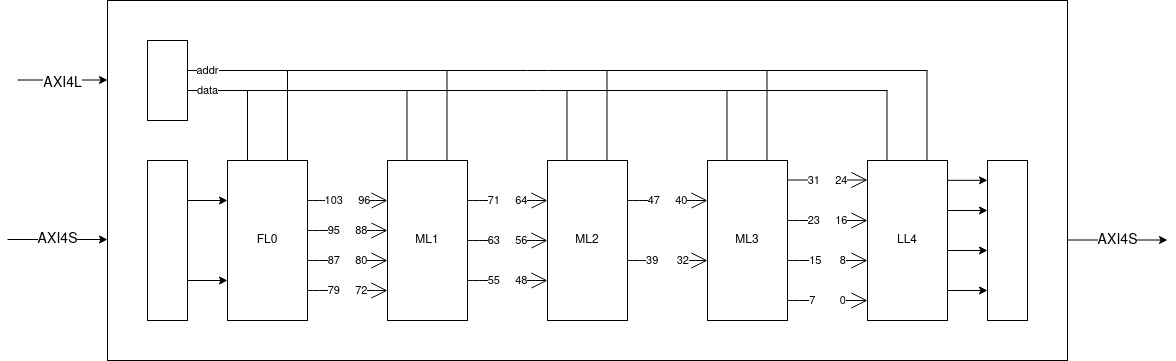
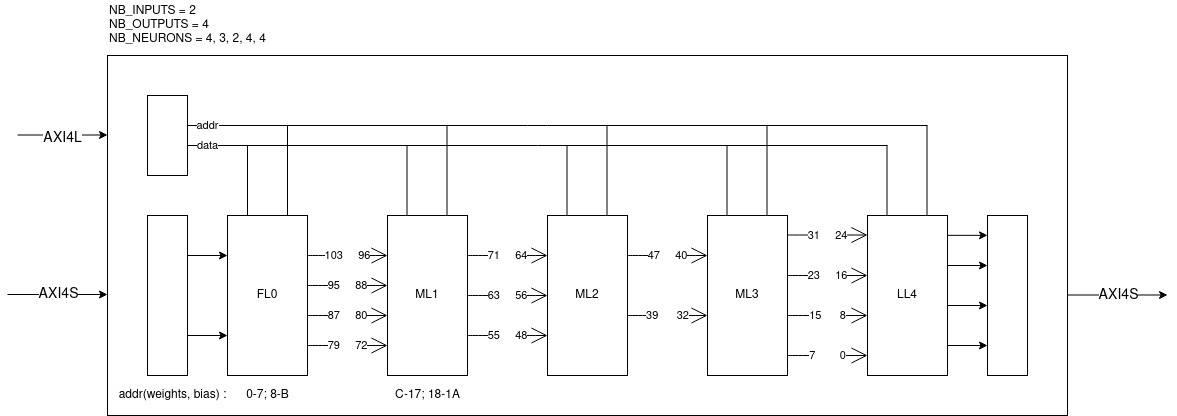
fix : miscellaneous bugs found during network test
fix(parameters) : specifying integer range to avoid troncatures

refactor

fix(generic_fc_nn_tb) : removing infinite while loop

fix(generic_fc_nn) : multiple driven nets fixed

fix(generic_fc_nn) : configuration addr distribution

fix(generic_layer) : configuration addr processing

feat(generic_fc_nn_tb) : simulating inputs

docs(trm) : update

diff --git a/doc/technical_reference_manual/trm.html b/doc/technical_reference_manual/trm.html
@@ -17,8 +17,8 @@ v_  : Variables
 <h3>A/ Overview</h3>
 
 <p>
-p_DATA_WIDTH is global for all project, so it is inside a package (parameters.vhd) shared between all IPs.
 All IPs’ IO must be std_logic. It helps with Vivado and GHDL / GTKWave.
+p_DATA_WIDTH is global for all project, so it is inside a package (parameters.vhd) shared between all IPs.
 </p>
 
 <h2>III/ Generic Layer</h2>
@@ -40,11 +40,11 @@ data index                            0            1            2          3
 
 <h3>C/ Configuration detail</h3>
 <p>
-Each “data” (weight or bias) has its address inside the IP.
-They are configured through a minimalist protocol with only an addr bus and a data bus
+Each “data” (weight or bias) has its onw address inside the IP (the address is independent of the data_width).  
+They are configured through a minimalist protocol with only an addr and a data signal.  
 The data bus is p_DATA_WIDTH large, so the configuration bus configures one weight / bias at the time.
 
-As all layers are in the same address space (also shared with the PS7), they need to have an bias so they can distinguish incoming addresses. 
+As all layers are in the same address space (also shared with the PS7), they need to have an offset so they can distinguish incoming addresses. 
 
 Weights come first in the address space, followed by bias.
 </p>
@@ -54,6 +54,9 @@ Weights come first in the address space, followed by bias.
 <h3>A/ Overview</h3>
 
 <img src="images/generic_fc_nn.jpg">
+
+<p>
+</p>
 
 <h3>B/ Configuration</h3>
 

diff --git a/hw/ips/generic_fc_nn/tb/README.md b/hw/ips/generic_fc_nn/tb/README.md
@@ -1,0 +1,2 @@
+# WCFG File
+This file represents a wave configuration for the vivado simulator.  

diff --git a/hw/ips/generic_fc_nn/README.md b/hw/ips/generic_fc_nn/README.md
@@ -1,0 +1,1 @@
+# Generic Fully-Connected Neural Network
